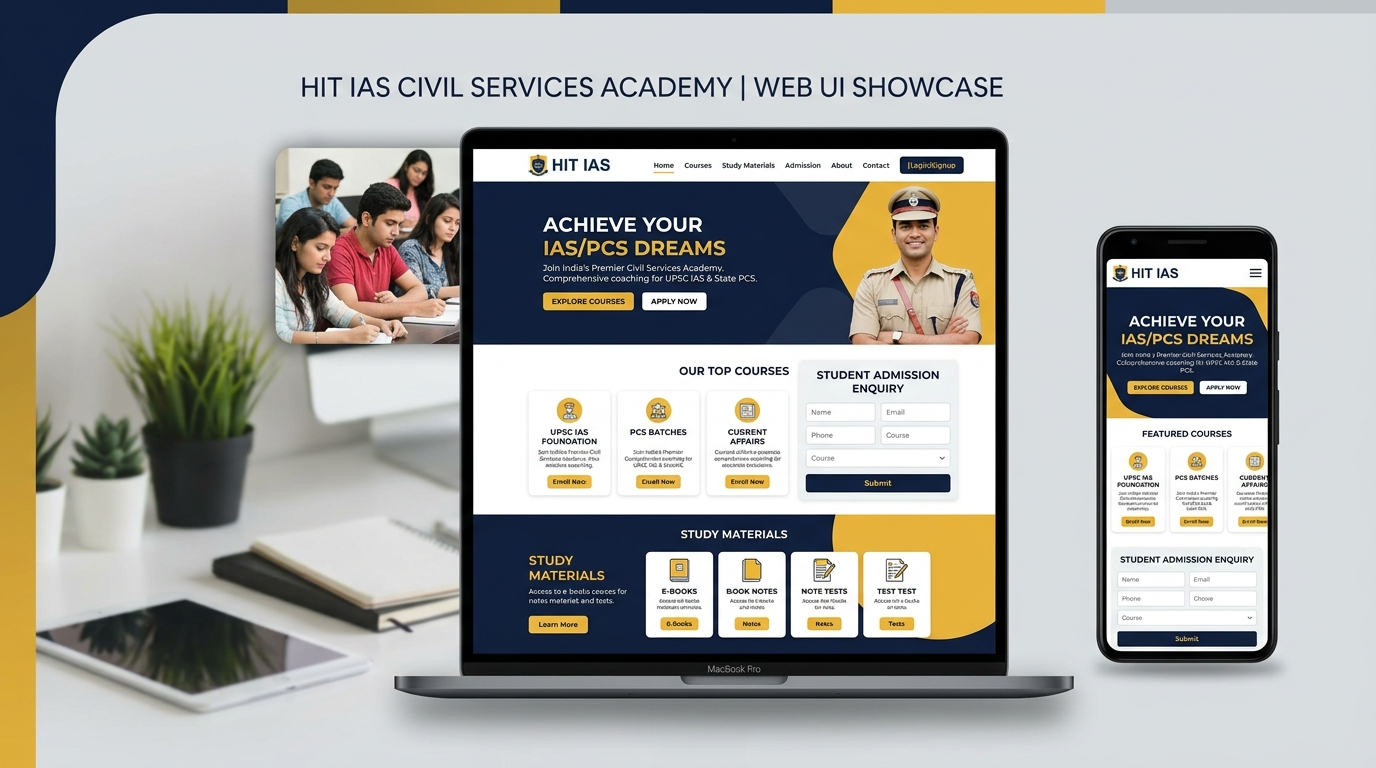
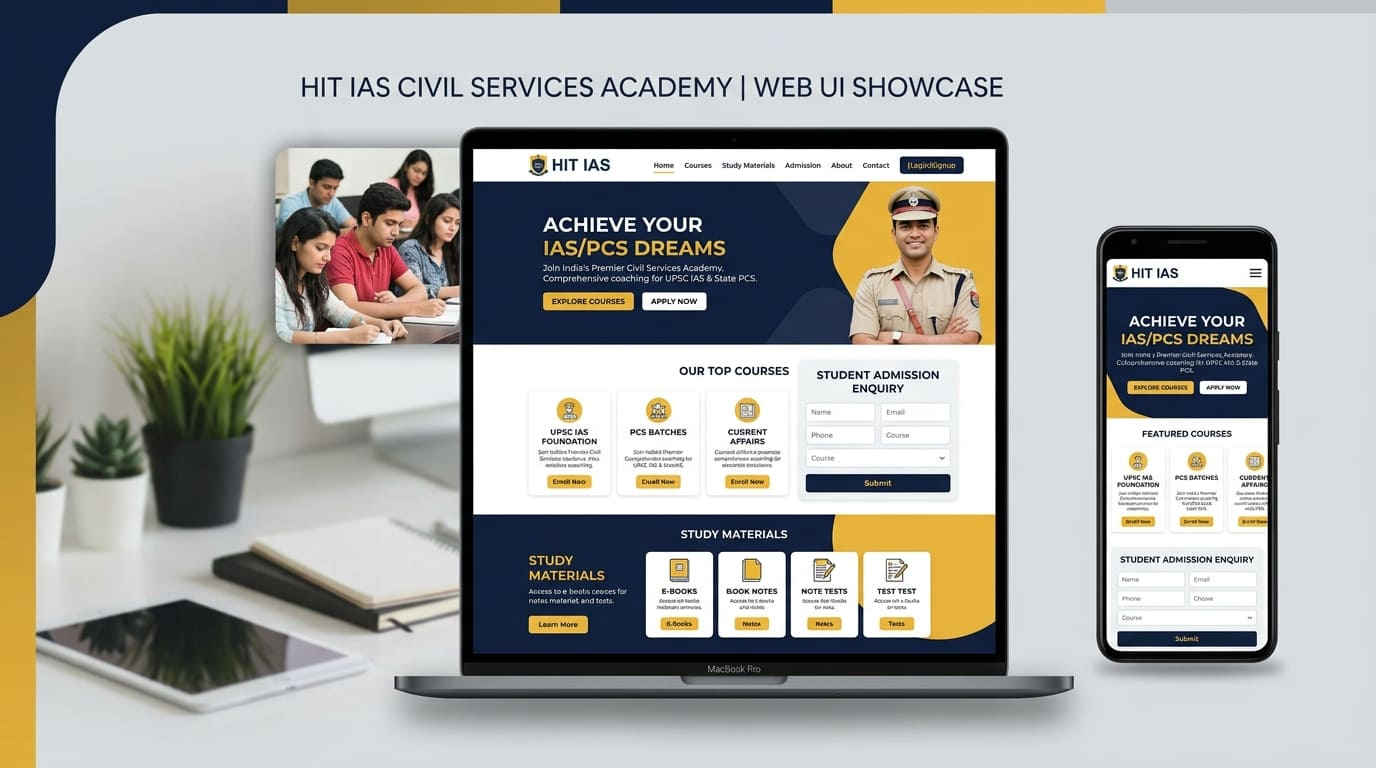
feat: add Hero component with project showcase and assets

Changed region(s): [[0.4062, 0.2812, 0.5312, 0.375], [0.5312, 0.5625, 0.5625, 0.5938]]

diff --git a/components/sections/Hero.tsx b/components/sections/Hero.tsx
@@ -216,7 +216,8 @@ export function Hero() {
                           alt={p.title}
                           width={1200}
                           height={825}
-                          priority={i === 0}
+                          priority={true}
+                          sizes="(max-width: 768px) 100vw, (max-width: 1200px) 50vw, 33vw"
                           className="h-full w-full object-cover object-top"
                         />
                       )}
